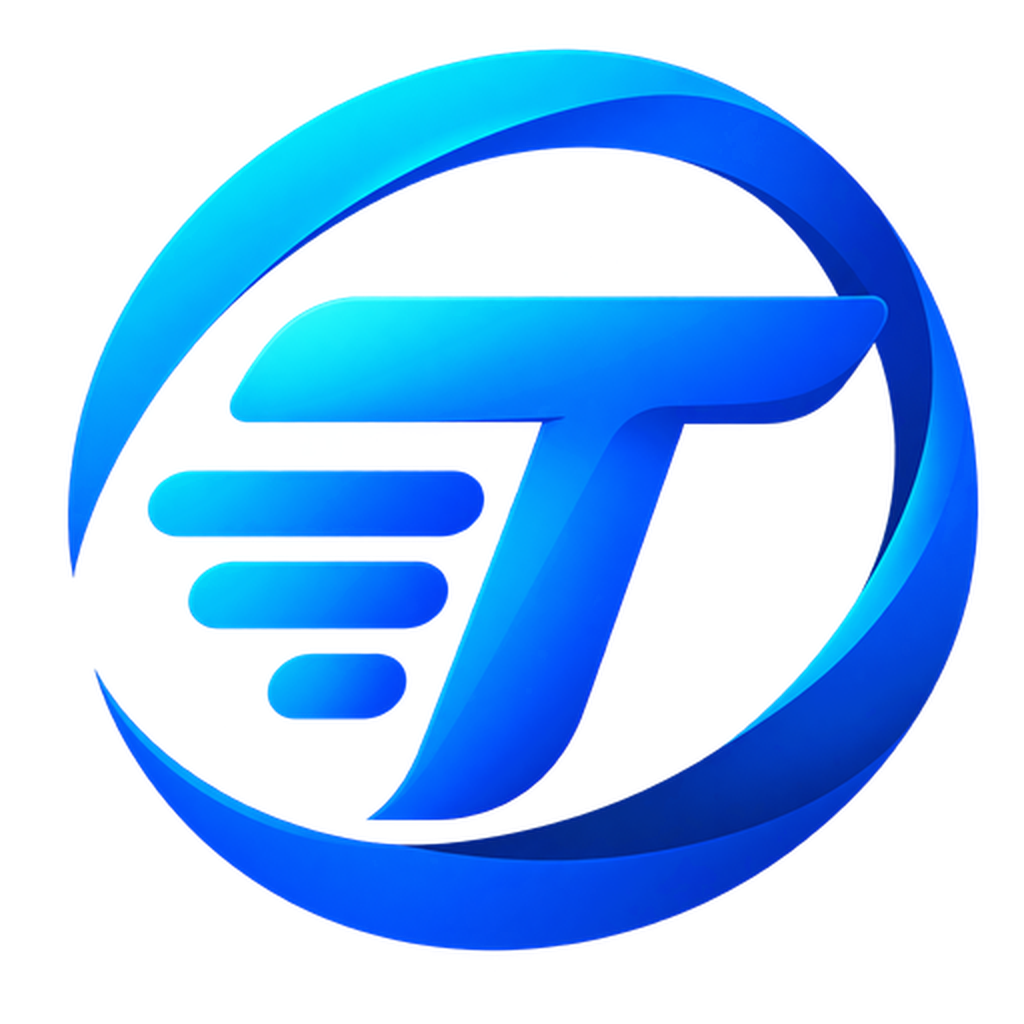
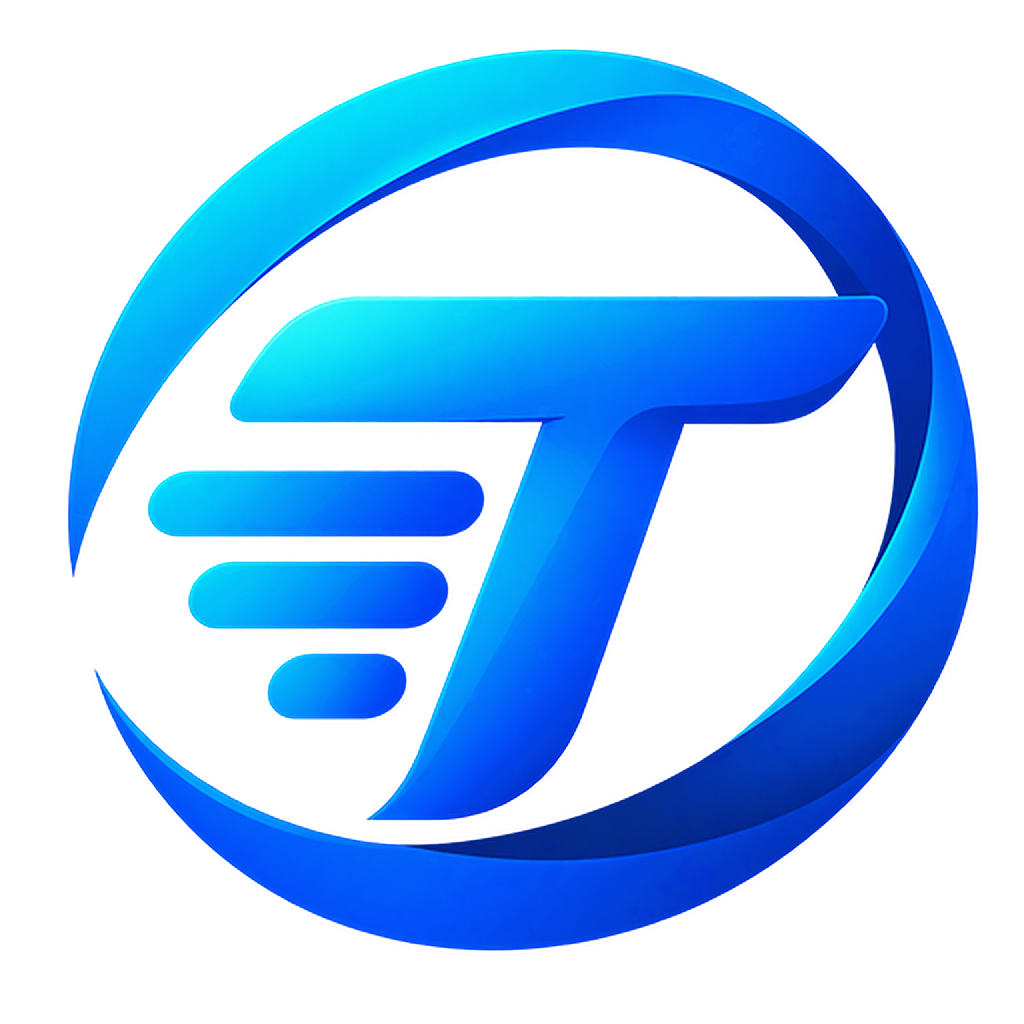
Add files via upload

Changed region(s): [[0.8438, 0.5312, 0.875, 0.5625], [0.2812, 0.2188, 0.3125, 0.25], [0.25, 0.25, 0.2812, 0.2812]]

diff --git a/login.html b/login.html
@@ -3,9 +3,9 @@
 <head>
 <meta charset="UTF-8"><meta name="viewport" content="width=device-width, initial-scale=1.0">
 <link rel="manifest" href="/manifest.webmanifest">
-<link rel="apple-touch-icon" sizes="180x180" href="/icons/apple-touch-icon.png">
+<link rel="apple-touch-icon" sizes="180x180" href="/icons/apple-touch-icon.png?v=3">
 <meta name="theme-color" content="#0b1e41">
-<link rel="icon" type="image/png" href="favicon.png"><link rel="icon" type="image/x-icon" href="favicon.ico">
+<link rel="icon" type="image/png" href="icons/icon-1024.png?v=3"><link rel="icon" type="image/x-icon" href="favicon.ico">
 <title>Sign in — TypeShala</title>
 <script src="https://unpkg.com/lucide@latest"></script>
 <link rel="stylesheet" href="style.css"><link rel="stylesheet" href="landing-v3.css?v=2"><link rel="stylesheet" href="auth-redesign.css?v=8">

diff --git a/reset-password.html b/reset-password.html
@@ -3,9 +3,9 @@
 <head>
 <meta charset="UTF-8"><meta name="viewport" content="width=device-width, initial-scale=1.0">
 <link rel="manifest" href="/manifest.webmanifest">
-<link rel="apple-touch-icon" sizes="180x180" href="/icons/apple-touch-icon.png">
+<link rel="apple-touch-icon" sizes="180x180" href="/icons/apple-touch-icon.png?v=3">
 <meta name="theme-color" content="#0b1e41">
-<link rel="icon" type="image/png" href="favicon.png"><link rel="icon" type="image/x-icon" href="favicon.ico">
+<link rel="icon" type="image/png" href="icons/icon-1024.png?v=3"><link rel="icon" type="image/x-icon" href="favicon.ico">
 <title>Reset Password — TypeShala</title>
 <link rel="stylesheet" href="style.css"><link rel="stylesheet" href="auth-redesign.css?v=8">
 </head>

diff --git a/index.html b/index.html
@@ -4,9 +4,9 @@
 <meta charset="UTF-8">
 <meta name="viewport" content="width=device-width, initial-scale=1.0">
 <link rel="manifest" href="/manifest.webmanifest">
-<link rel="apple-touch-icon" sizes="180x180" href="/icons/apple-touch-icon.png">
+<link rel="apple-touch-icon" sizes="180x180" href="/icons/apple-touch-icon.png?v=3">
 <meta name="theme-color" content="#0b1e41">
-<link rel="icon" type="image/png" href="/favicon.png">
+<link rel="icon" type="image/png" href="/icons/icon-1024.png?v=3">
 <link rel="icon" type="image/x-icon" href="/favicon.ico">
 <link rel="shortcut icon" href="/favicon.ico">
 <meta name="description" content="TypeShala — exam-ready typing practice for SSC, legal and court typing aspirants.">

diff --git a/mock-test.html b/mock-test.html
@@ -4,10 +4,10 @@
 <meta charset="UTF-8">
 <meta name="viewport" content="width=device-width, initial-scale=1.0">
 <link rel="manifest" href="/manifest.webmanifest">
-<link rel="apple-touch-icon" sizes="180x180" href="/icons/apple-touch-icon.png">
+<link rel="apple-touch-icon" sizes="180x180" href="/icons/apple-touch-icon.png?v=3">
 <meta name="theme-color" content="#0b1e41">
 <meta http-equiv="refresh" content="0; url=mock-test-attempt.html">
-<link rel="icon" type="image/png" href="/favicon.png">
+<link rel="icon" type="image/png" href="/icons/icon-1024.png?v=3">
 <link rel="icon" type="image/x-icon" href="/favicon.ico">
 <link rel="shortcut icon" href="/favicon.ico">
 <title>Mock Test — TypeShala</title>

diff --git a/admin-products.html b/admin-products.html
@@ -4,9 +4,9 @@
 <meta charset="UTF-8">
 <meta name="viewport" content="width=device-width, initial-scale=1.0">
 <link rel="manifest" href="/manifest.webmanifest">
-<link rel="apple-touch-icon" sizes="180x180" href="/icons/apple-touch-icon.png">
+<link rel="apple-touch-icon" sizes="180x180" href="/icons/apple-touch-icon.png?v=3">
 <meta name="theme-color" content="#0b1e41">
-<link rel="icon" type="image/png" href="/favicon.png">
+<link rel="icon" type="image/png" href="/icons/icon-1024.png?v=3">
 <link rel="icon" type="image/x-icon" href="/favicon.ico">
 <link rel="shortcut icon" href="/favicon.ico">
 <title>Manage Subscription &amp; Credit Products — TypeShala Admin</title>

diff --git a/admin-announcements.html b/admin-announcements.html
@@ -4,9 +4,9 @@
 <meta charset="UTF-8">
 <meta name="viewport" content="width=device-width, initial-scale=1.0">
 <link rel="manifest" href="/manifest.webmanifest">
-<link rel="apple-touch-icon" sizes="180x180" href="/icons/apple-touch-icon.png">
+<link rel="apple-touch-icon" sizes="180x180" href="/icons/apple-touch-icon.png?v=3">
 <meta name="theme-color" content="#0b1e41">
-<link rel="icon" type="image/png" href="/favicon.png">
+<link rel="icon" type="image/png" href="/icons/icon-1024.png?v=3">
 <link rel="icon" type="image/x-icon" href="/favicon.ico">
 <link rel="shortcut icon" href="/favicon.ico">
 <title>Manage Announcements — TypeShala Admin</title>

diff --git a/admin-mock-tests.html b/admin-mock-tests.html
@@ -4,9 +4,9 @@
 <meta charset="UTF-8">
 <meta name="viewport" content="width=device-width, initial-scale=1.0">
 <link rel="manifest" href="/manifest.webmanifest">
-<link rel="apple-touch-icon" sizes="180x180" href="/icons/apple-touch-icon.png">
+<link rel="apple-touch-icon" sizes="180x180" href="/icons/apple-touch-icon.png?v=3">
 <meta name="theme-color" content="#0b1e41">
-<link rel="icon" type="image/png" href="/favicon.png">
+<link rel="icon" type="image/png" href="/icons/icon-1024.png?v=3">
 <link rel="icon" type="image/x-icon" href="/favicon.ico">
 <link rel="shortcut icon" href="/favicon.ico">
 <title>Manage Mock Tests — TypeShala Admin</title>

diff --git a/admin-promotions.html b/admin-promotions.html
@@ -4,9 +4,9 @@
 <meta charset="UTF-8">
 <meta name="viewport" content="width=device-width, initial-scale=1.0">
 <link rel="manifest" href="/manifest.webmanifest">
-<link rel="apple-touch-icon" sizes="180x180" href="/icons/apple-touch-icon.png">
+<link rel="apple-touch-icon" sizes="180x180" href="/icons/apple-touch-icon.png?v=3">
 <meta name="theme-color" content="#0b1e41">
-<link rel="icon" type="image/png" href="/favicon.png">
+<link rel="icon" type="image/png" href="/icons/icon-1024.png?v=3">
 <link rel="icon" type="image/x-icon" href="/favicon.ico">
 <link rel="shortcut icon" href="/favicon.ico">
 <title>Manage Promotions — TypeShala Admin</title>

diff --git a/forgot-password.html b/forgot-password.html
@@ -4,9 +4,9 @@
 <meta charset="UTF-8">
 <meta name="viewport" content="width=device-width, initial-scale=1.0">
 <link rel="manifest" href="/manifest.webmanifest">
-<link rel="apple-touch-icon" sizes="180x180" href="/icons/apple-touch-icon.png">
+<link rel="apple-touch-icon" sizes="180x180" href="/icons/apple-touch-icon.png?v=3">
 <meta name="theme-color" content="#0b1e41">
-<link rel="icon" type="image/png" href="/favicon.png">
+<link rel="icon" type="image/png" href="/icons/icon-1024.png?v=3">
 <link rel="icon" type="image/x-icon" href="/favicon.ico">
 <link rel="shortcut icon" href="/favicon.ico">
 <title>Reset your password — TypeShala</title>

diff --git a/subscriptions.html b/subscriptions.html
@@ -4,9 +4,9 @@
 <meta charset="UTF-8">
 <meta name="viewport" content="width=device-width, initial-scale=1.0">
 <link rel="manifest" href="/manifest.webmanifest">
-<link rel="apple-touch-icon" sizes="180x180" href="/icons/apple-touch-icon.png">
+<link rel="apple-touch-icon" sizes="180x180" href="/icons/apple-touch-icon.png?v=3">
 <meta name="theme-color" content="#0b1e41">
-<link rel="icon" type="image/png" href="/favicon.png">
+<link rel="icon" type="image/png" href="/icons/icon-1024.png?v=3">
 <link rel="icon" type="image/x-icon" href="/favicon.ico">
 <link rel="shortcut icon" href="/favicon.ico">
 <title>Choose Your Access — TypeShala</title>

diff --git a/mock-history.html b/mock-history.html
@@ -4,9 +4,9 @@
 <meta charset="UTF-8">
 <meta name="viewport" content="width=device-width, initial-scale=1.0">
 <link rel="manifest" href="/manifest.webmanifest">
-<link rel="apple-touch-icon" sizes="180x180" href="/icons/apple-touch-icon.png">
+<link rel="apple-touch-icon" sizes="180x180" href="/icons/apple-touch-icon.png?v=3">
 <meta name="theme-color" content="#0b1e41">
-<link rel="icon" type="image/png" href="/favicon.png">
+<link rel="icon" type="image/png" href="/icons/icon-1024.png?v=3">
 <link rel="icon" type="image/x-icon" href="/favicon.ico">
 <link rel="shortcut icon" href="/favicon.ico">
 <title>Mock Test History — TypeShala</title>

diff --git a/weak-keys.html b/weak-keys.html
@@ -4,9 +4,9 @@
 <meta charset="UTF-8">
 <meta name="viewport" content="width=device-width, initial-scale=1.0">
 <link rel="manifest" href="/manifest.webmanifest">
-<link rel="apple-touch-icon" sizes="180x180" href="/icons/apple-touch-icon.png">
+<link rel="apple-touch-icon" sizes="180x180" href="/icons/apple-touch-icon.png?v=3">
 <meta name="theme-color" content="#0b1e41">
-<link rel="icon" type="image/png" href="/favicon.png">
+<link rel="icon" type="image/png" href="/icons/icon-1024.png?v=3">
 <link rel="icon" type="image/x-icon" href="/favicon.ico">
 <link rel="shortcut icon" href="/favicon.ico">
 <title>Weak-Key Practice — TypeShala</title>
